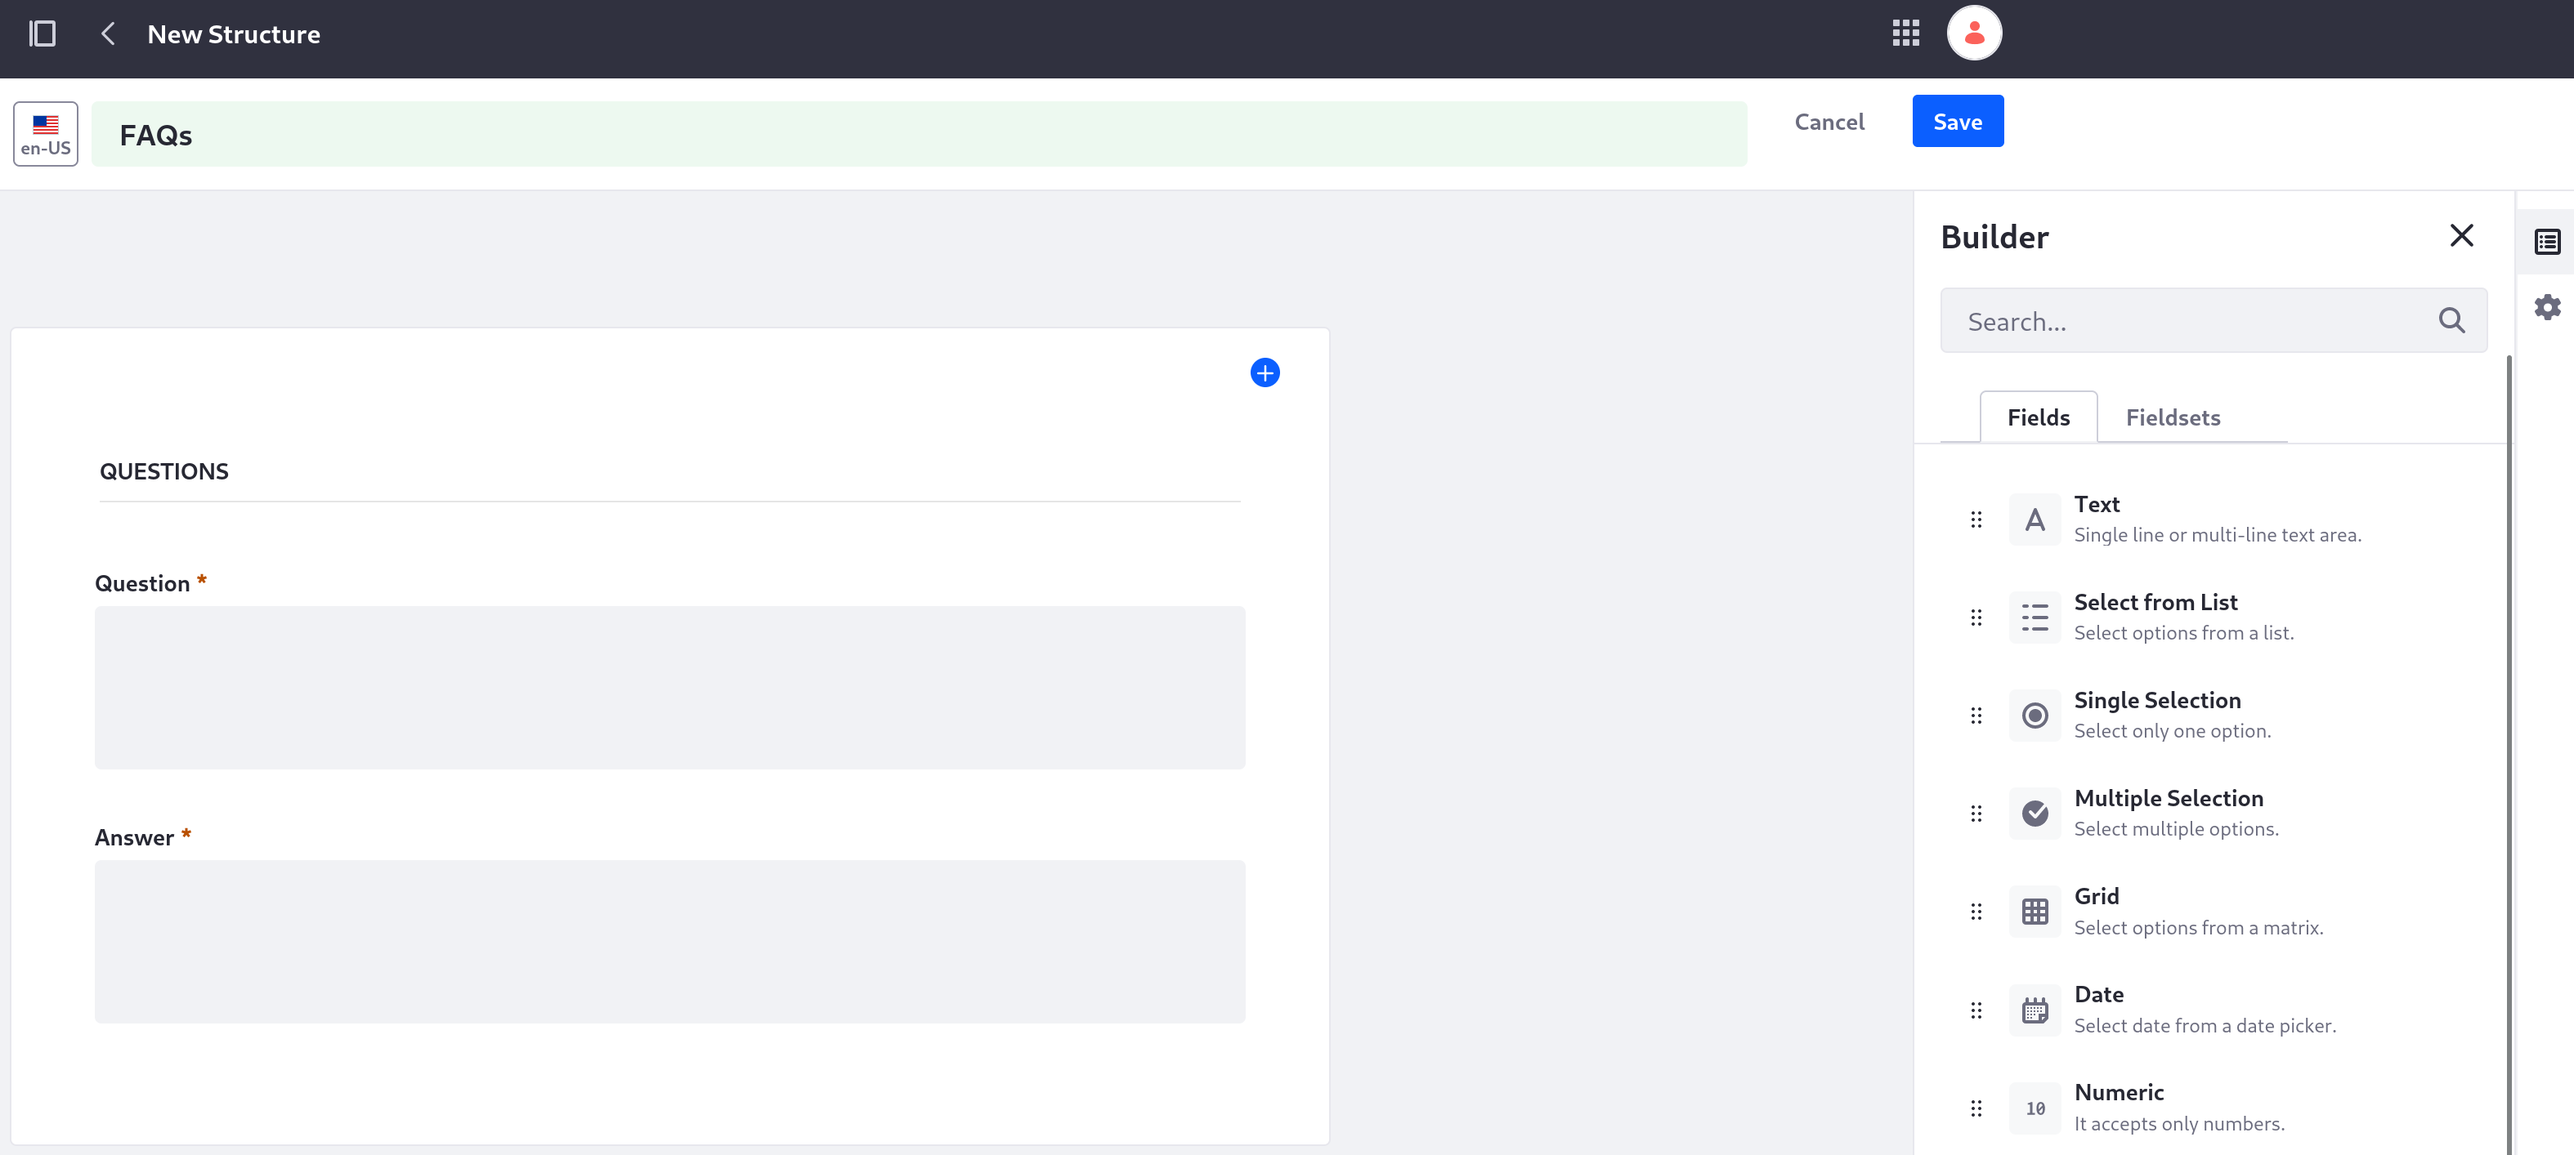
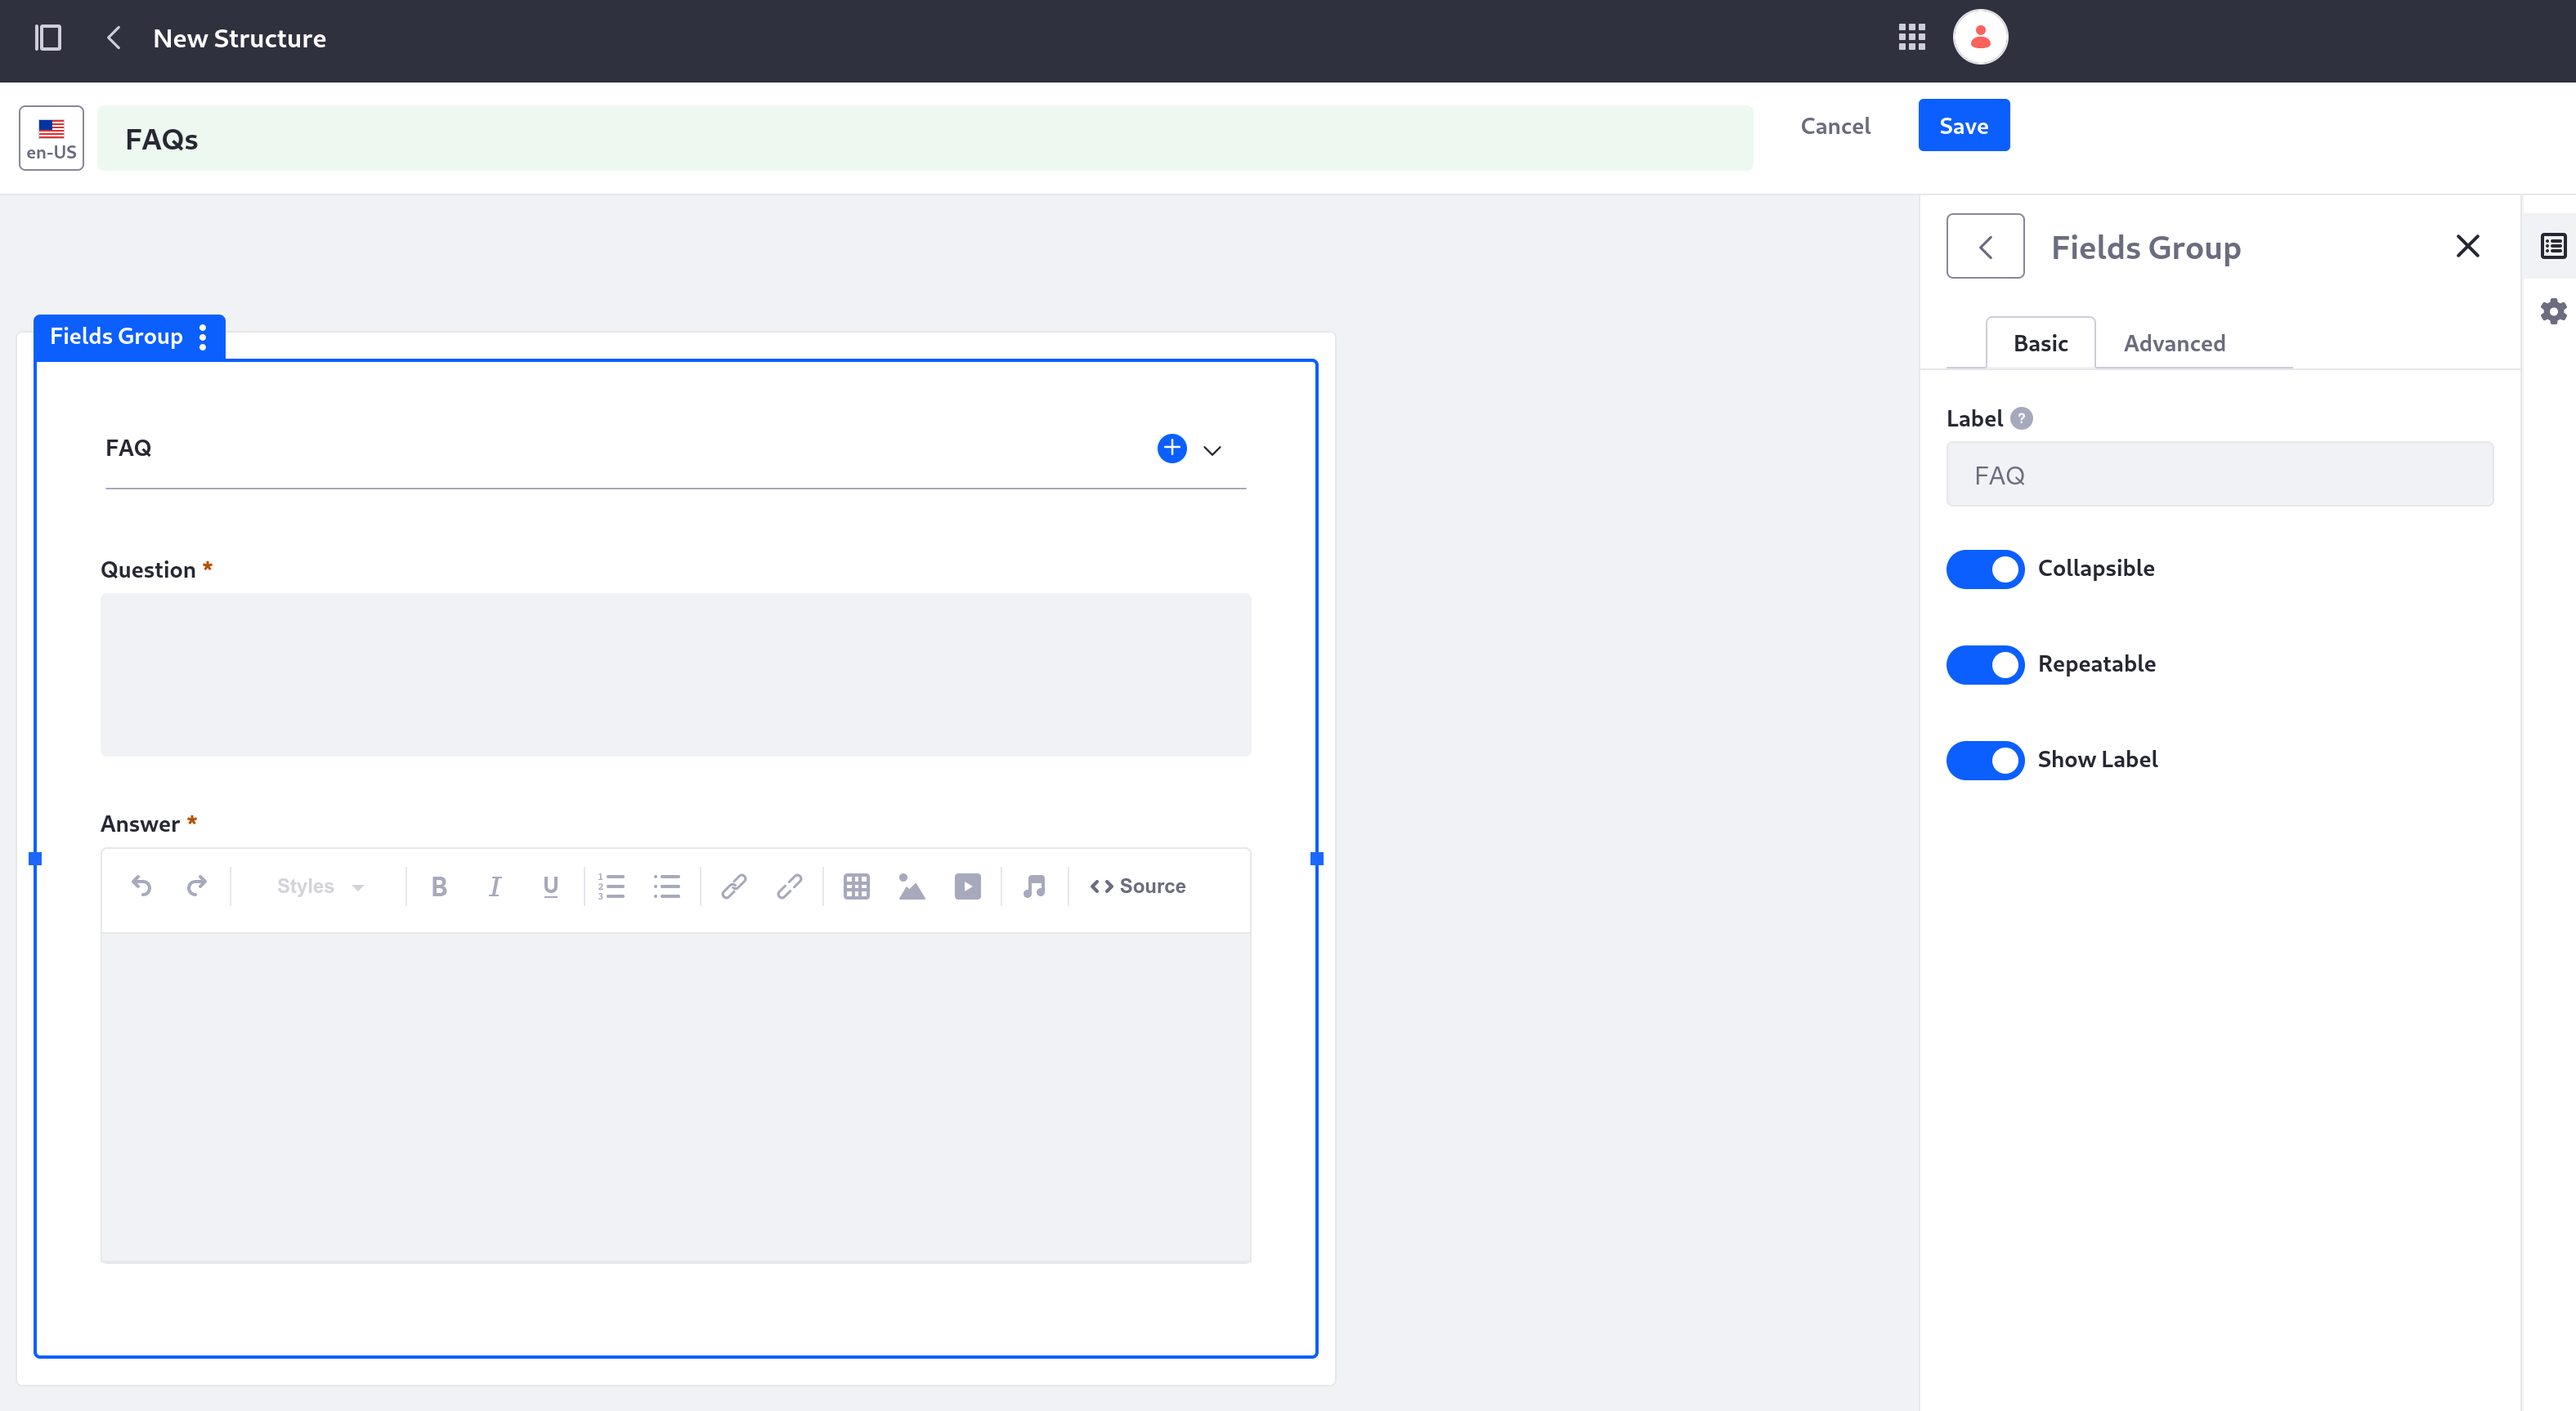
LRDOCS-12287 Rework to import a nicer template for presentation of FAQs article on a page

diff --git a/docs/courses/latest/en/web-site-manager/creating-content/adding-a-template-to-display-faqs.md b/docs/courses/latest/en/web-site-manager/creating-content/adding-a-template-to-display-faqs.md
@@ -80,7 +80,43 @@ Next, you'll format the way a FAQs article is listed.
 
 Now you have a template that displays each question and answer wherever you display a FAQs article, and you can display both of your new types of web content properly on your site.
 
-Next, you'll start [adding some articles](./adding-the-sites-first-web-content.md) with your new types.
+Next, you'll import a second template for the FAQs structure.
+
+## Import Another Template
+
+While you're still on the Templates page, make sure the top of the page reads "Templates for Structure: FAQs"
+
+1. Still on the Templates page, click Add ( ![Add icon](../../images/icon-add.png) ) to create another new template.
+
+   ```{note}
+   The top of the Templates page reads "Templates for Structure: FAQs" to remind you that adding a new template still associates it with the FAQs template. If you access the Templates tab normally (without clicking "Manage Templates" for the structure), you'll need to manually set the structure when you're creating it.
+   ```
+
+1. Download and unzip the template resource:
+
+   ```bash
+   curl https://resources.learn.liferay.com/courses/latest/en/liferay-c8m2.zip -O
+   ```
+
+   ```bash
+   unzip liferay-c8m2.zip
+   ```
+
+1. At the top of the page, click Actions ( ![Actions icon](../../images/icon-actions.png) ) &rarr; *Import Script*.
+
+   ![Click Import Script to import the FreeMarker template you downloaded.](./adding-a-template-to-display-faqs/images/04.png)
+
+1. Upload the FreeMarker template you downloaded (`faq-web-content-template.ftl`) and click *Open*.
+
+   The template body is filled with the new template's FreeMarker code. This template uses the same techniques as the previous template you added, but it also includes [Clay components](https://learn.liferay.com/web/guest/w/dxp/building-applications/developing-a-java-web-application/using-mvc/tag-libraries/clay-tag-library) and an embedded button component.
+
+1. Enter "Collapsible FAQs" as the new template's name.
+
+1. Click *Save*.
+
+Now you have a template with more components in it, for a cleaner look and feel.
+
+Next, you'll start [adding some articles](./adding-the-sites-first-web-content.md) with your new content types.
 
 ## Relevant Concepts
 

diff --git a/docs/courses/latest/en/web-site-manager/creating-content/adding-simple-display-page-templates.md b/docs/courses/latest/en/web-site-manager/creating-content/adding-simple-display-page-templates.md
@@ -49,9 +49,11 @@ Olivia, the content manager, doesn't have permission to create new page template
 
 1. Click the *Styles* tab from the menu on the right side of the screen.
 
-1. Under *Spacing*, click the top and bottom margins (in the outer rectangle) and set them to use the *Spacer 3* margin.
+1. Under *Spacing*, click the top and bottom margins (in the outer rectangle) and set them to use the *Spacer 3* margin (1 rem).
 
-1. Click the left margin and set it to use the *Spacer 5* margin so the article content is moved further to the right on the page.
+   This creates a buffer of space, above and below where your template is displayed.
+
+1. Click the left margin and set it to use the *Spacer 5* margin (3 rem) so the article content is moved further to the right on the page.
 
    ![Increase the margins using the Spacing menu.](./adding-simple-display-page-templates/images/05.png)
 
@@ -91,7 +93,7 @@ Next, create a template to display a list of FAQs.
 
 1. Click the *Styles* tab in the menu on the right.
 
-1. Set the left margin to *Spacer 5*.
+1. Set the left and right margins to *Spacer 5* (3 rem).
 
 1. Under the *Text* section, change the font size to *Font Size Large*.
 
@@ -101,7 +103,7 @@ Next, create a template to display a list of FAQs.
 
 1. Click the *Styles* tab in the menu on the right.
 
-1. Set the left margin to *Spacer 5*.
+1. Set the left and right margins to *Spacer 5* (3 rem).
 
 1. In the Browser menu on the left, click the *element-text* component inside the Paragraph fragment.
 
@@ -111,7 +113,7 @@ Next, create a template to display a list of FAQs.
 
    ![Map the text in the Paragraph fragment to the Publish Date property of the displayed content.](./adding-simple-display-page-templates/images/07.png)
 
-   Now the publish date displays in a new fragment beneath the body of the FAQs article.
+   Now the article's last publish date displays in a new fragment beneath the body of the FAQs article.
 
 1. Click *Publish* at the top of the screen.
 

diff --git a/docs/courses/latest/en/web-site-manager/creating-content/adding-a-structure-for-frequently-asked-questions.md b/docs/courses/latest/en/web-site-manager/creating-content/adding-a-structure-for-frequently-asked-questions.md
@@ -45,17 +45,15 @@ Now you're ready to configure the structure with the necessary fields.
 
 1. Click the *Advanced* tab and change the *Field Reference* value to `QuestionText`.
 
-   Using this instead of the automatically generated reference value makes it easier to reference it in the template later.
+   Using this instead of the automatically generated reference value makes it easier to reference it in templates later.
 
-1. Exit the text field's configuration, and drag a second Text field from the Builder menu onto the first one.
+1. Exit the text field's configuration, and drag a Rich Text field from the Builder menu onto the first one.
 
    This adds both fields into a field group containing them.
 
-1. Set these values in the second text field's configuration:
+1. Set these values in the rich text field's configuration:
 
    * **Label**: Answer
-
-   * **Field Type**: *Multiple Lines*
 
    * Enable the *Required Field* toggle.
 
@@ -63,13 +61,15 @@ Now you're ready to configure the structure with the necessary fields.
 
 1. Click the fields group containing the two text fields to access its configuration, and set these fields:
 
-   * **Label**: Question Group
+   * **Label**: FAQ
+
+   * Enable the *Collapsible* toggle.
 
    * Enable the *Repeatable* toggle.
 
    ![The completed FAQs structure has a repeatable field group, for any number of paired questions and answers.](./adding-a-structure-for-frequently-asked-questions/images/03.png)
 
-1. Click the *Advanced* tab and change the *Field Reference* value to `QuestionGroup`.
+1. Click the *Advanced* tab and change the *Field Reference* value to `FAQ`.
 
 1. Click *Save* at the top of the page.
 

diff --git a/docs/courses/latest/en/web-site-manager/creating-content/adding-the-sites-first-web-content.md b/docs/courses/latest/en/web-site-manager/creating-content/adding-the-sites-first-web-content.md
@@ -87,6 +87,8 @@ You're brought back to the Web Content page, and now you have an Event article. 
    The site is still undergoing maintenance. Please email hello@clarityvisionsolutions.com with a screenshot of where you found the broken link, and we'll fix it as soon as we can. Thank you!
    ```
 
+1. In the Properties menu on the right side of the screen, ensure that the second template you added, *Collapsible FAQs*, is selected.
+
 1. Click *Publish* at the top of the page.
 
 Now you have a new article for each of the web content structures you've added.
